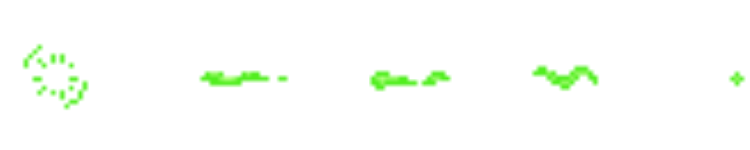
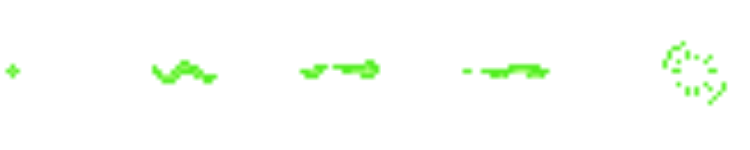
Naves inimigas com diferentes tiros setadas

Changed region(s): [[0.184, 0.3733, 0.7973, 0.6133], [0.8587, 0.2667, 1.0, 0.72], [0.0, 0.2933, 0.1227, 0.7467]]

diff --git a/fase3.py b/fase3.py
@@ -17,8 +17,8 @@ def fase3(pontos,vida):
     fundo = Sprite("images/fase3/background3.png")
     fundo.set_position(0,0)
 
-    fundo2= Sprite("images/fase3/backgroun3.png")
-    fundo2.set_position(1280,0)
+    fundo2= Sprite("images/fase3/background3.png")
+    fundo2.set_position(1152,0)
 
     pause_icon = Sprite("images/pause/pause_icon.png")
     pause_icon.set_position(1280-pause_icon.width-30,10)
@@ -51,6 +51,7 @@ def fase3(pontos,vida):
     ## Variáveis
     nave.set_position(50,janela.height/2)
     cont,fps, fps_atual = 0, 0, 0
+    inimigo = 1
     lista_nave_inimigas = []
     lista_tiro = []
     vida_list = []
@@ -78,17 +79,17 @@ def fase3(pontos,vida):
             cont,fps = 0, 0
 
         ## Deslocamento de fundo
-        vel_fundo = 0.2
+        vel_fundo = 0.5
 
         if  fundo.x+fundo.width>=0:
             fundo.move_x(-vel_fundo)  
         else:
-            fundo.set_position(1280,0)
+            fundo.set_position(1152,0)
 
         if  fundo2.x+fundo2.width>=0:
             fundo2.move_x(-vel_fundo)  
         else:
-            fundo2.set_position(1280,0)
+            fundo2.set_position(1152,0)
         
         ## Desenhando tela do jogo
         fundo.draw()
@@ -114,26 +115,25 @@ def fase3(pontos,vida):
         temp_inimigo_nave += janela.delta_time()
         time_tiro_enemy += janela.delta_time()
 
+        if time == 30 or time == 50:
+            inimigo += 1
 
         ## Setando tiros na tela
         lista_tiro,temp_tiro = nave_geral.tiro(janela,nave,lista_tiro,temp_tiro,vel_tiro)
 
-        lista_nave_inimigas,temp_tiro,lista_tiro,pontos, time_tiro_enemy,lista,vida= nave_geral.inimigo(janela,lista_nave_inimigas,temp_tiro,lista_tiro,pontos,time_tiro_enemy,lista,vel_tiro,nave,vida)
+        lista_nave_inimigas,temp_tiro,lista_tiro,pontos, time_tiro_enemy,lista,vida = nave_geral.inimigo(janela,lista_nave_inimigas,temp_tiro,lista_tiro,pontos,time_tiro_enemy,lista,vel_tiro,nave,vida, inimigo)
 
-        lista, vida, time_tiro_enemy = colisaofase3.tiro_inimigo(janela,lista_nave_inimigas,time_tiro_enemy,lista,vel_tiro,nave,vida)
+        lista, vida, time_tiro_enemy = colisaofase3.tiro_inimigo(janela,lista_nave_inimigas,time_tiro_enemy,lista,vel_tiro,nave,vida, inimigo)
 
         for shot in lista:
             shot.update()
             shot.draw()
             if shot.x < janela.width:
-                        shot.move_x(-vel_tiro)
+                shot.move_x(-vel_tiro)
 
             else:
                 lista.pop(lista.index(shot))
             
-            # if shot.y< nave.y + nave.height-40 and shot.y> nave.y and shot.x <nave.x + nave.width:
-            #     vida -= 1
-            #     lista.pop(lista.index(shot))
 
         ## Desenhando vida
         for vida_for in range(vida-1):
@@ -151,7 +151,7 @@ def fase3(pontos,vida):
             som2.pause()
             som2.stop()
             
-            return 2, pontos
+            return 4, pontos
     
         som2.play()
 

diff --git a/nave_geral.py b/nave_geral.py
@@ -54,35 +54,30 @@ def tiro(janela,nave_sprite,lista,temp,vel_tiro):
        
         return lista,temp
 
-def inimigo(janela,lista_nave_inimigas,time,lista_tiro,pontos,time_tiro_enemy,lista,vel_tiro,nave,vida):
-    if time >= 3:
-        nave_inimiga_sprite = Sprite("images/fase3/Ship1.png")
+def inimigo(janela,lista_nave_inimigas,time,lista_tiro,pontos,time_tiro_enemy,lista,vel_tiro,nave,vida, i):
+    if time >= 2:
+        nave_inimiga_sprite = Sprite(f"images/fase3/Ship{i}.png")
         nave_inimiga_sprite.set_position(1281+ randint(200,250),uniform(0,768- nave_inimiga_sprite.height-70))
         lista_nave_inimigas.append(nave_inimiga_sprite)
         time = 0
 
 
-    
     for A in lista_nave_inimigas:
         if A.x > -100:
             vel = 230*janela.delta_time()
             A.move_x(-vel)
 
             A.draw()
-
         else:
             lista_nave_inimigas.pop(lista_nave_inimigas.index(A))
         
 
-        if lista_tiro != []:
+        if lista_tiro:
             for B in lista_tiro:
-                        if B.y > A.y- A.height-15 and B.y < A.y and B.x >= A.x-A.width/2 and B.x<A.x:
-                            lista_nave_inimigas.pop(lista_nave_inimigas.index(A))
-                            lista_tiro.pop(lista_tiro.index(B))
-                            pontos += 1250
-
-
-
+                if B.y > A.y- A.height-15 and B.y < A.y and B.x >= A.x-A.width/2 and B.x<A.x:
+                    lista_nave_inimigas.pop(lista_nave_inimigas.index(A))
+                    lista_tiro.pop(lista_tiro.index(B))
+                    pontos += 1250
 
     return lista_nave_inimigas,time,lista_tiro,pontos, time_tiro_enemy,lista,vida
 

diff --git a/game.py b/game.py
@@ -37,19 +37,27 @@ def transicao(level):
 
     if level == 1: 
         return ini(janela, level)
+    elif level == 4:
+        # Tela final do jogo
+        fundo = GameImage("images/tela_geral/final.png")
 
     while True:
         fundo.draw()
-        aceitar.draw()
-        recusar.draw()
-        
         click += janela.delta_time()
 
-        if click > 1 and mouse.is_button_pressed(1): 
-            if mouse.is_over_object(aceitar):
-                return ini(janela, level)
-            if mouse.is_over_object(recusar):
-                return False
+        if level < 4:
+            aceitar.draw()
+            recusar.draw()
+
+            if click > 1 and mouse.is_button_pressed(1): 
+                if mouse.is_over_object(aceitar):
+                    return ini(janela, level)
+                if mouse.is_over_object(recusar):
+                    return False
+        elif click > 4:
+            # Depois de 4 segundos voltamos para o menu
+            return 0
+
         janela.update()
 
 def fases(var,vida):
@@ -79,7 +87,7 @@ def fases(var,vida):
             else: var = 0
         
         elif var == 4:
-            transicao(var)
+            var = transicao(var)
         
         # Morreu
         elif var == -1:

diff --git a/colisaofase3.py b/colisaofase3.py
@@ -5,12 +5,14 @@ from random import randint
 from PPlay.collision import *
 
 
-def tiro_inimigo(janela,lista_nave_inimigas,time_tiro_enemy,lista,vel_tiro,nave,vida):
-    if time_tiro_enemy >=0.8:
+def tiro_inimigo(janela,lista_nave_inimigas,time_tiro_enemy,lista,vel_tiro,nave,vida, i):
+    
+    if time_tiro_enemy >= 0.8:
         for A in lista_nave_inimigas:
-            tiro  = Sprite("images/fase3/shot.png",5)
+            tiro  = Sprite(f"images/fase3/shot{i}A.png",5)
+            print(i)
             tiro.set_position(A.x -140, A.y-42)
-            tiro.set_total_duration(1700)
+            tiro.set_total_duration(2000)
             lista.append(tiro)
             
         time_tiro_enemy = 0
